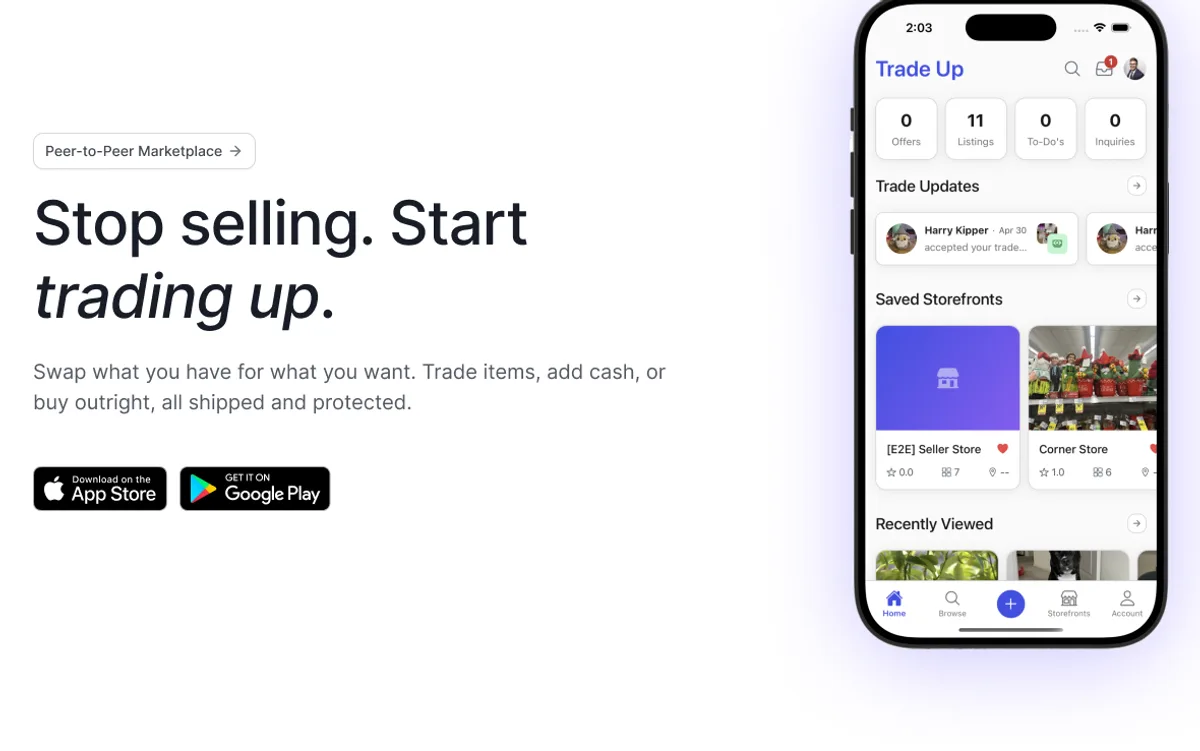
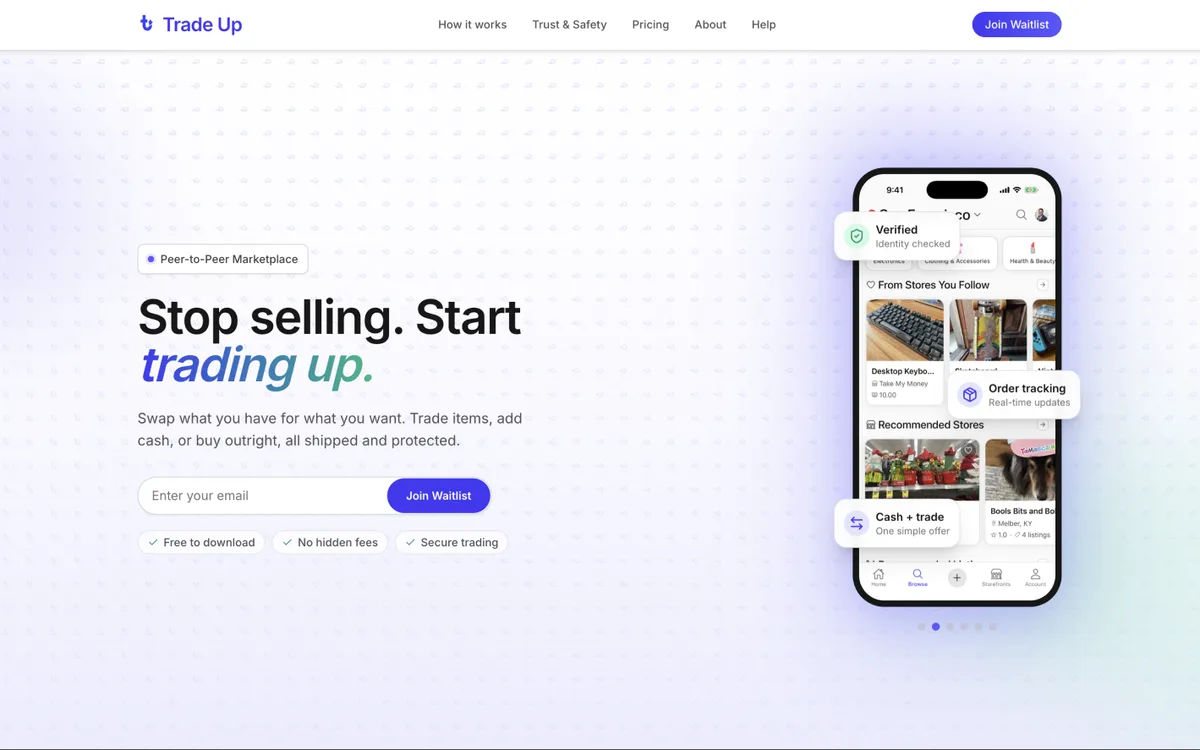
feat(home): refresh Trade Up thumbnail + add Jewmanity to work carousel

diff --git a/sanity/scripts/updateWorkImages.ts b/sanity/scripts/updateWorkImages.ts
@@ -1,0 +1,55 @@
+import { getCliClient } from 'sanity/cli'
+import { createReadStream } from 'node:fs'
+
+const client = getCliClient()
+
+const PUBLIC = '/Users/harrisonkipper/Claude/Projects/HEK Designs/hekds/public/images/portfolio'
+
+async function run() {
+  const doc = await client.getDocument('homepage')
+  if (!doc) throw new Error('no homepage doc')
+  const work: any[] = (doc as any).featuredWork || []
+  console.log('current featuredWork:', work.map((w) => `${w._key}:${w.label}:${w.image ? 'img' : 'no-img'}`))
+
+  async function upload(file: string) {
+    const asset = await client.assets.upload('image', createReadStream(`${PUBLIC}/${file}`), {
+      filename: file,
+    })
+    console.log('uploaded', file, '->', asset._id)
+    return asset._id
+  }
+
+  const tradeupAsset = await upload('tradeup.webp')
+  const jewmanityAsset = await upload('jewmanity.webp')
+
+  const tradeup = work.find((w) => /trade\s*up/i.test(w.label || ''))
+  const jewmanity = work.find((w) => /jewmanity/i.test(w.label || ''))
+
+  let patch = client.patch('homepage')
+  if (tradeup) {
+    patch = patch.set({
+      [`featuredWork[_key=="${tradeup._key}"].image`]: {
+        _type: 'image',
+        asset: { _type: 'reference', _ref: tradeupAsset },
+      },
+      [`featuredWork[_key=="${tradeup._key}"].url`]: 'tradeupmarket.com',
+    })
+    console.log('patching Trade Up image, key', tradeup._key)
+  }
+  if (jewmanity) {
+    patch = patch.set({
+      [`featuredWork[_key=="${jewmanity._key}"].image`]: {
+        _type: 'image',
+        asset: { _type: 'reference', _ref: jewmanityAsset },
+      },
+    })
+    console.log('patching Jewmanity image, key', jewmanity._key)
+  }
+  await patch.commit()
+  console.log('done')
+}
+
+run().catch((e) => {
+  console.error(e)
+  process.exit(1)
+})
